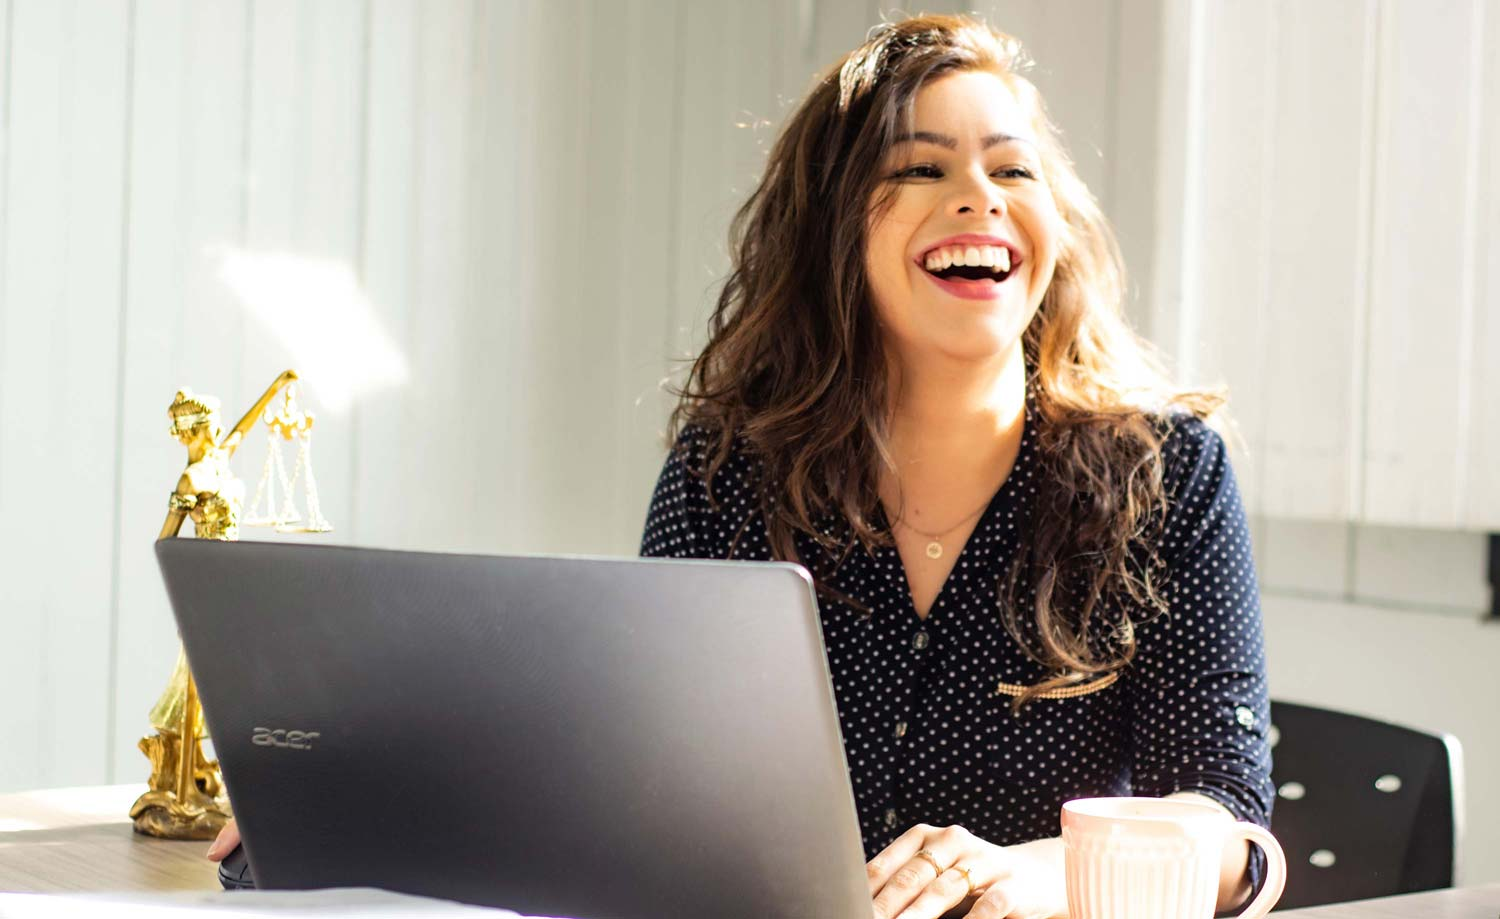
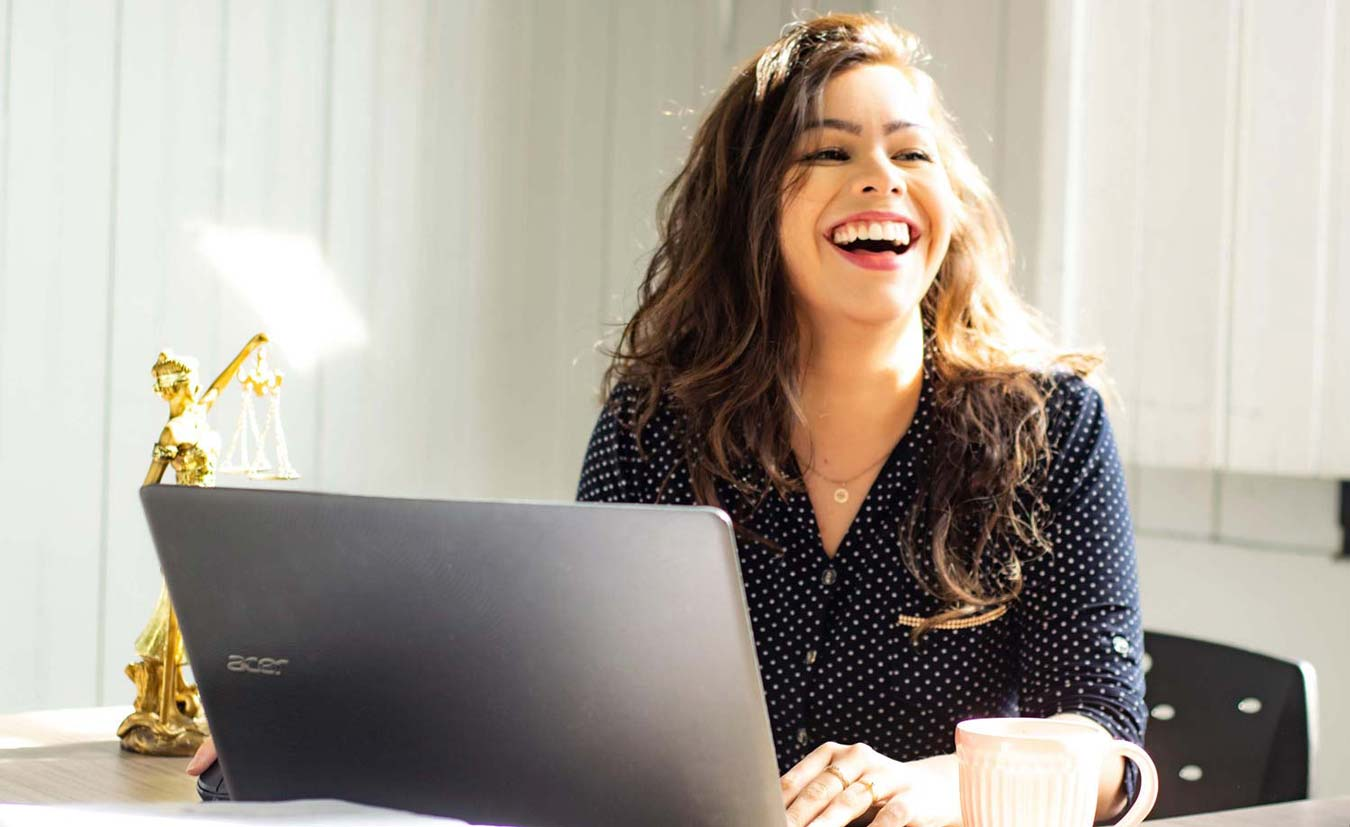
rsizing images again

diff --git a/assets/style.css b/assets/style.css
@@ -125,6 +125,7 @@ body {
 	height: 100%;
 	object-fit: cover;
 	padding: .5em;
+
 }
 .mg-prev, .mg-next {
 	width: 30px;
@@ -201,6 +202,7 @@ body {
 #contact .container {
 	display: flex;
 }
+
 .picture.right::before {
 	content: ' ';
 	background-color: #BEB45A;

diff --git a/index.html b/index.html
@@ -150,7 +150,7 @@
 			</form>
 		</div>
 		<div class="picture right">
-			<img src="./assets/images/camera.jpg">
+			<img class ="camera" src="./assets/images/camera.jpg">
 		</div>
 	</div>
 </div>
